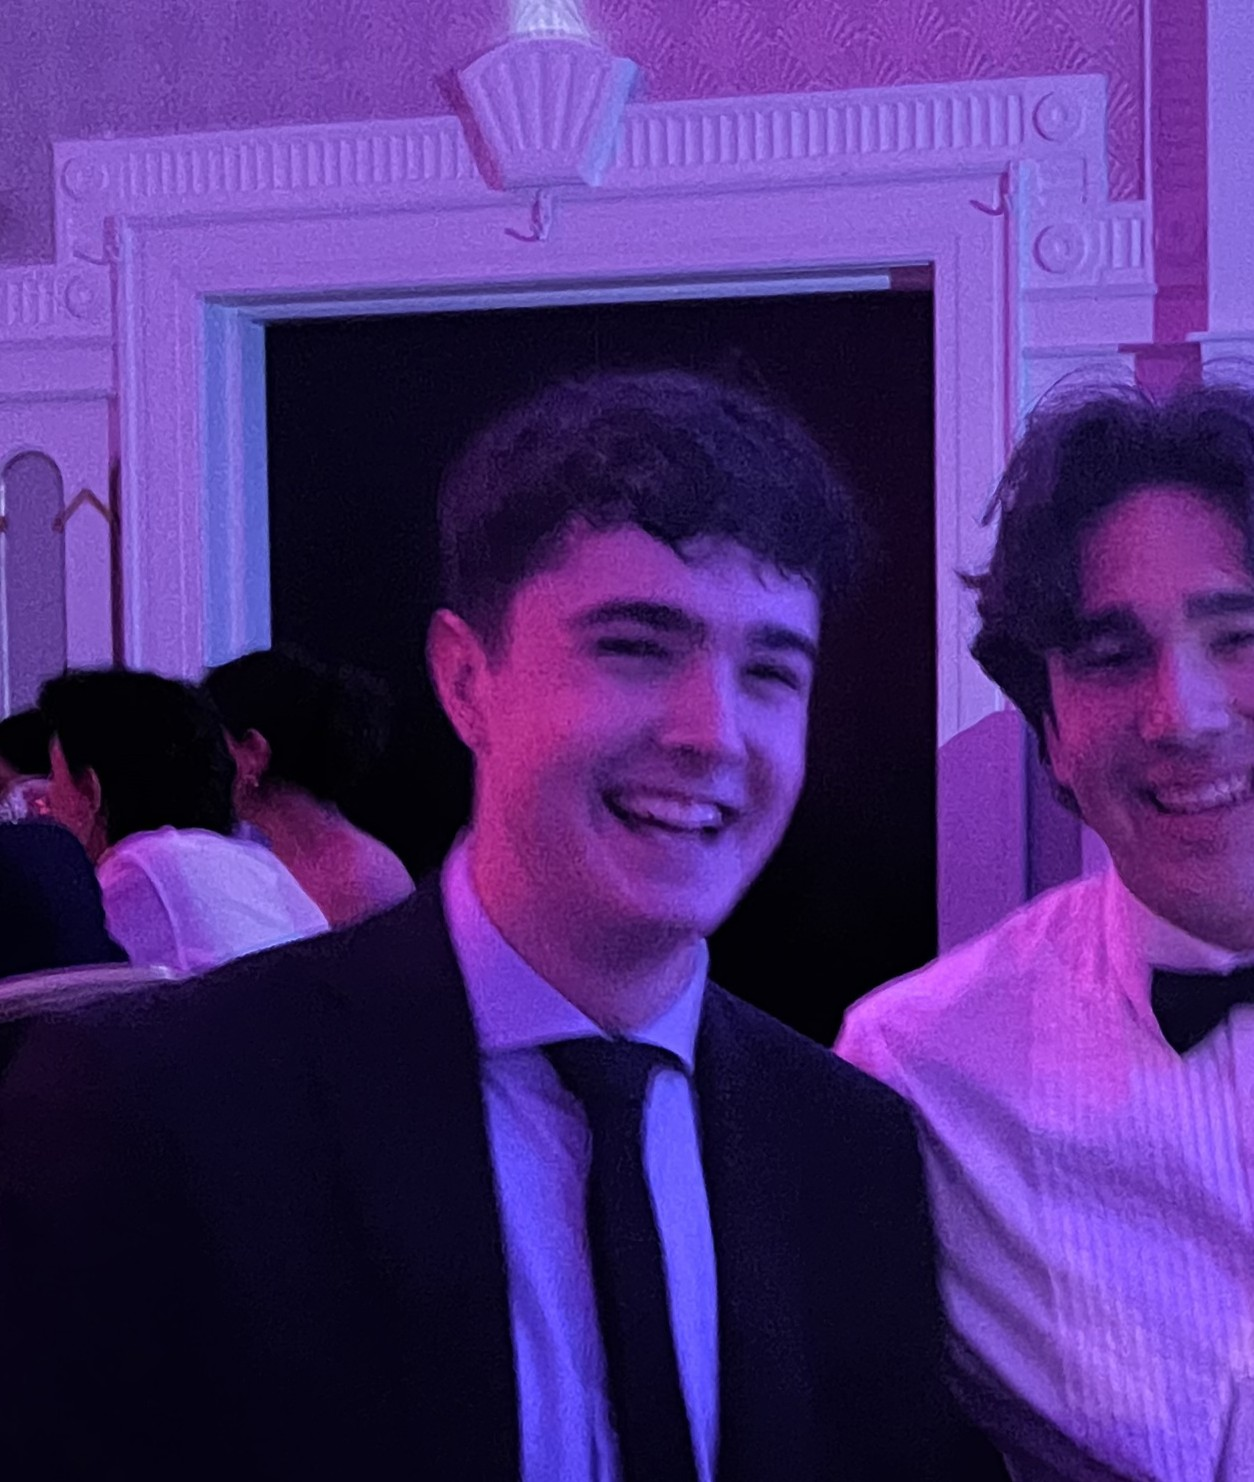
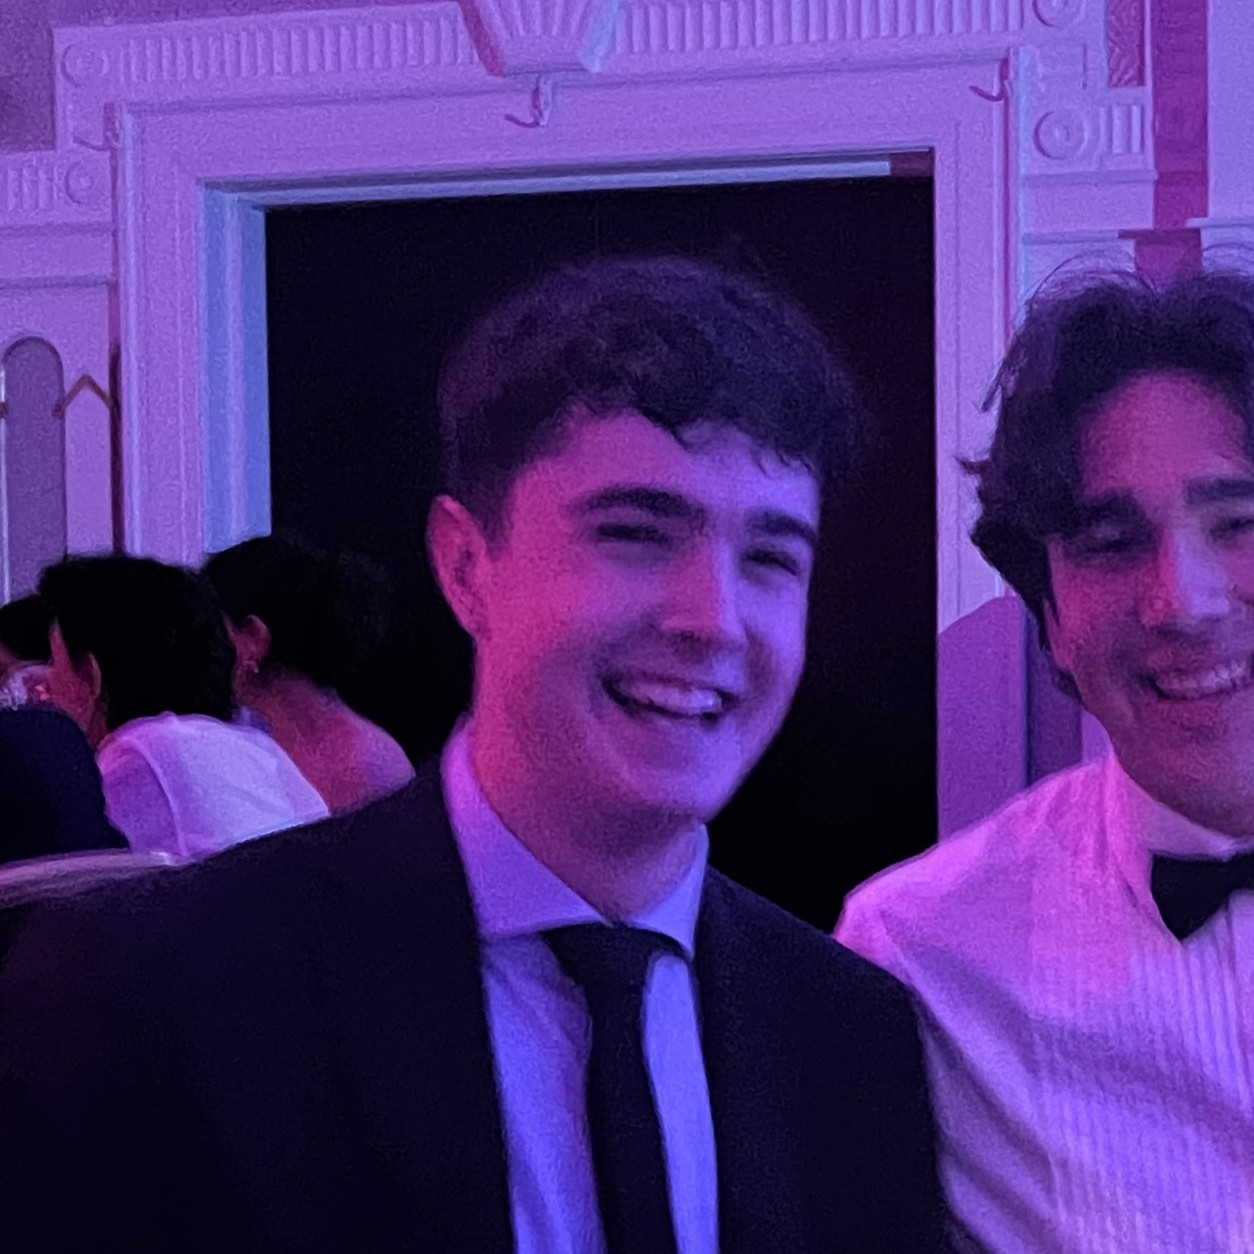
polish: add seo crawl files and mobile visual fixes

diff --git a/src/components/projects/ProjectVisual.tsx b/src/components/projects/ProjectVisual.tsx
@@ -4,6 +4,8 @@ import { motion } from "motion/react"
 import { type Project } from "@/data/projects"
 import { cn } from "@/lib/utils"
 
+const stackBarWidths = ["basis-16", "basis-20", "basis-14", "basis-24"]
+
 const visualStyles = {
   "Backend/API": {
     panel:
@@ -62,7 +64,7 @@ export function ProjectVisual({
   return (
     <div
       className={cn(
-        "relative isolate grid aspect-[16/9] place-items-center overflow-hidden bg-muted/40",
+        "relative isolate grid aspect-[4/3] place-items-center overflow-hidden bg-muted/40 min-[480px]:aspect-[16/9]",
         className,
       )}
     >
@@ -80,8 +82,8 @@ export function ProjectVisual({
           )}
         >
           <div className="absolute inset-0 bg-[linear-gradient(to_right,var(--border)_1px,transparent_1px),linear-gradient(to_bottom,var(--border)_1px,transparent_1px)] bg-[size:24px_24px] opacity-20" />
-          <div className="absolute inset-x-4 top-4 h-8 rounded-lg border border-border/80 bg-background/80 backdrop-blur" />
-          <div className="absolute left-7 top-7 flex gap-1.5">
+          <div className="absolute inset-x-3 top-3 h-7 rounded-lg border border-border/80 bg-background/80 backdrop-blur sm:inset-x-4 sm:top-4 sm:h-8" />
+          <div className="absolute left-6 top-[1.625rem] flex gap-1.5 sm:left-7 sm:top-7">
             <span className={cn("size-2 rounded-full", visual.accent)} />
             <span className={cn("size-2 rounded-full", visual.secondary)} />
             <span className="size-2 rounded-full bg-muted-foreground/30" />
@@ -92,7 +94,7 @@ export function ProjectVisual({
             whileInView={{ opacity: 1, y: 0 }}
             viewport={{ once: true }}
             transition={{ duration: 0.4, ease: "easeOut" }}
-            className="absolute inset-x-4 bottom-4 top-16 rounded-lg border border-border/80 bg-card/85 p-4 shadow-sm backdrop-blur"
+            className="absolute inset-x-3 bottom-3 top-12 rounded-lg border border-border/80 bg-card/85 p-3 shadow-sm backdrop-blur sm:inset-x-4 sm:bottom-4 sm:top-16 sm:p-4"
           >
             <div className="flex items-center justify-between gap-3">
               <div className="min-w-0">
@@ -111,20 +113,20 @@ export function ProjectVisual({
               </motion.div>
             </div>
 
-            <div className="mt-4 grid gap-2">
+            <div className="mt-3 grid gap-1.5 sm:mt-4 sm:gap-2">
               {visibleStack.map((item, index) => (
-                <div key={item} className="flex items-center gap-2">
+                <div
+                  key={item}
+                  className={cn(
+                    "flex min-w-0 items-center gap-2",
+                    index === 3 && "hidden min-[420px]:flex",
+                  )}
+                >
                   <motion.span
                     className={cn(
-                      "h-2 rounded-full",
+                      "h-2 shrink-0 rounded-full",
                       index % 2 === 0 ? visual.accent : visual.secondary,
-                      index === 0
-                        ? "w-1/2"
-                        : index === 1
-                          ? "w-2/3"
-                          : index === 2
-                            ? "w-5/12"
-                            : "w-7/12",
+                      stackBarWidths[index],
                     )}
                     initial={{ scaleX: 0 }}
                     whileInView={{ scaleX: 1 }}

diff --git a/index.html b/index.html
@@ -9,6 +9,9 @@
       name="description"
       content="Nathan Walsh, full-stack developer and software engineer, building practical web apps with React, TypeScript, APIs, and reliable delivery workflows."
     />
+    <meta name="author" content="Nathan Walsh" />
+    <meta name="robots" content="index, follow" />
+    <link rel="canonical" href="https://www.nathanwalsh.me/" />
     <meta name="theme-color" content="#111827" />
     <meta property="og:title" content="Nathan Walsh | Full-Stack Developer" />
     <meta
@@ -16,6 +19,28 @@
       content="Developer portfolio for Nathan Walsh, focused on practical web apps, APIs, projects, and software engineering habits."
     />
     <meta property="og:type" content="website" />
+    <meta property="og:url" content="https://www.nathanwalsh.me/" />
+    <script type="application/ld+json">
+      {
+        "@context": "https://schema.org",
+        "@type": "Person",
+        "name": "Nathan Walsh",
+        "jobTitle": "Full-Stack Developer and Software Engineer",
+        "sameAs": [
+          "https://github.com/NathanWalash",
+          "https://www.linkedin.com/in/nathan-walsh1/"
+        ],
+        "knowsAbout": [
+          "Full-stack development",
+          "Software engineering",
+          "React",
+          "TypeScript",
+          "FastAPI",
+          "Python",
+          "Solidity"
+        ]
+      }
+    </script>
     <title>Nathan Walsh | Full-Stack Developer</title>
   </head>
   <body>

diff --git a/src/components/home/ProfileSystemPanel.tsx b/src/components/home/ProfileSystemPanel.tsx
@@ -16,11 +16,11 @@ const signalBars = ["w-8", "w-14", "w-11", "w-16", "w-10"]
 export function ProfileSystemPanel() {
   if (profile.profileImage.src) {
     return (
-      <div className="grid aspect-[4/3] place-items-center overflow-hidden rounded-lg border border-border bg-muted/50 sm:aspect-square">
+      <div className="grid aspect-square place-items-center overflow-hidden rounded-lg border border-border bg-muted/50">
         <img
           src={profile.profileImage.src}
           alt={profile.profileImage.alt}
-          className="size-full object-cover"
+          className="size-full object-cover object-center"
         />
       </div>
     )
